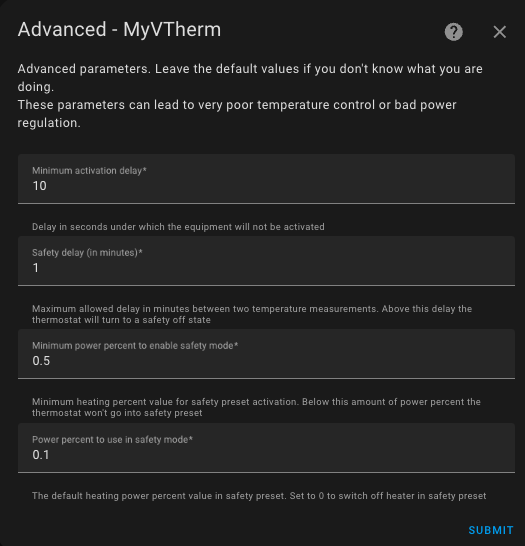
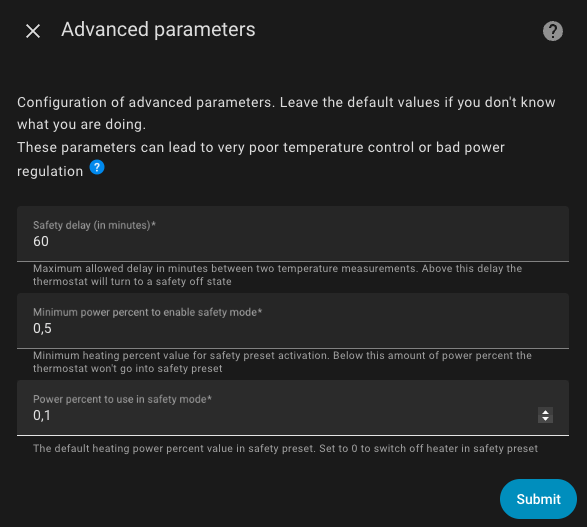
With documentation

diff --git a/documentation/fr/algorithms.md b/documentation/fr/algorithms.md
@@ -4,6 +4,8 @@
   - [L'algorithme TPI](#lalgorithme-tpi)
     - [Configurez les coefficients de l'algorithme TPI](#configurez-les-coefficients-de-lalgorithme-tpi)
     - [Principe](#principe)
+    - [Délai minimal d'activation ou de désactivation](#délai-minimal-dactivation-ou-de-désactivation)
+    - [Seuils haut et bas d'activation de l'algorithme](#seuils-haut-et-bas-dactivation-de-lalgorithme)
   - [L'algorithme d'auto-régulation (sans contrôle de la vanne)](#lalgorithme-dauto-régulation-sans-contrôle-de-la-vanne)
   - [L'algorithme de la fonction d'auto-start/stop](#lalgorithme-de-la-fonction-dauto-startstop)
 
@@ -17,7 +19,11 @@ Si vous avez choisi un thermostat de type ```over_switch``` ou  ```over_valve```
 
 Vous devez donner :
 1. le coefficient coef_int de l'algorithme TPI,
-2. le coefficient coef_ext de l'algorithme TPI
+2. le coefficient coef_ext de l'algorithme TPI,
+3. une durée minimale d'activation en secondes,
+4. une durée minimale d'extinction en secondes,
+5. un seuil haut en °C (ou °K) d'écart de température en dessus duquel l'algorithme sera éteint,
+6. un seuil bas en °C (ou °K) d'écart de température en dessous duquel l'algorithme sera activé
 
 
 ### Principe
@@ -38,6 +44,32 @@ Pour régler ces coefficients, gardez à l'esprit que :
 4. **si l'atteinte de la température cible est trop rapide et que des oscillations apparaissent** autour de la cible, vous pouvez diminuer le ``coef_int`` pour donner moins de puissance au radiateur.
 
 En type `over_valve` le `on_percent` est ramené à une valeur entre 0 et 100% et sert directement à commander l'ouverture de la vanne.
+
+### Délai minimal d'activation ou de désactivation
+
+Le premier délai (`minimal_activation_delay_sec`) en secondes est le délai minimum acceptable pour allumer le radiateur. Lorsque le calcul donne un délai de mise sous tension inférieur à cette valeur, le chauffage reste éteint. Si le temps d'allumage est trop court, la, commutation rapide ne permettra pas à l'équipement de monter en température.
+
+Idem avec le deuxième délai (`minimal_deactivation_delay_sec`) en secondes lui aussi mais pour la durée d'extinction. Si la durée d'extinction est inférieure à cette durée, le radiateur ne sera pas éteint. Ca évite les clignotements rapides qui servent très peu à la régulation de température.
+
+### Seuils haut et bas d'activation de l'algorithme
+
+Depuis la version 7.4, deux seuils supplémentaires sont disponibles. Ils permettent de couper (resp. mettre en marche) l'algorithme TPI lui même en fonction de l'écart entre la consigne et la température courante.
+
+Si la température monte et que l'écart est supérieur au seuil haut alors le radiateur est coupé (ie. le on_percent est forcé à 0).
+Si la température descend et que l'écart est inférieur au seuil bas alors le radiateur est relancé (ie le on_percent est calculé avec l'algo tel que présenté ci-dessus).
+
+Ces deux seuils permettent de couper le cycle d'extinction / allumage lorsque la température dépasse la consigne. Un hystéresis permet d'éviter un bagottement rapide.
+
+Exemples:
+1. supposons que la consigne soit réglée sur 20°, le seuil haut sur 2° et le seuil bas sur 1°,
+2. lorsque la température monte et dépasse les 22° (consigne + seuil haut), le on_percent est forcé à 0,
+3. lorsque la température redescend et passe en dessous des 21° (consigne + seuil bas), le on_percent est de nouveau calculé
+
+> ![Astuce](images/tips.png) _*Notes*_
+> 1. laissez les 2 valeurs à 0, si vous ne voulez pas utiliser les seuils. Cela permet d'avoir le comportement d'avant la version 7.4,
+> 2. les 2 valeurs sont nécessaires. Si vous laissez une à 0, aucun seuils ne sera appliqué. En effet, les 2 sont nécessaires pour avoir un fonctionnement correct.
+> 3. en cas de pilotage (mode Refroidissement), les tests sont inversés mais le principe reste le même.
+> 4. le seuil haut devrait toujours est supérieur au seuil bas. Même en cas de refroidissement
 
 ## L'algorithme d'auto-régulation (sans contrôle de la vanne)
 

diff --git a/documentation/en/algorithms.md b/documentation/en/algorithms.md
@@ -4,6 +4,8 @@
   - [The TPI Algorithm](#the-tpi-algorithm)
     - [Configuring the TPI Algorithm Coefficients](#configuring-the-tpi-algorithm-coefficients)
     - [Principle](#principle)
+    - [Minimum Activation or Deactivation Delay](#minimum-activation-or-deactivation-delay)
+    - [Upper and Lower Activation Thresholds of the Algorithm](#upper-and-lower-activation-thresholds-of-the-algorithm)
   - [The Self-Regulation Algorithm (Without Valve Control)](#the-self-regulation-algorithm-without-valve-control)
   - [The Auto-Start/Stop Function Algorithm](#the-auto-startstop-function-algorithm)
 
@@ -15,9 +17,13 @@ If you have selected a thermostat of type `over_switch`, `over_valve`, or `over_
 
 ![image](images/config-tpi.png)
 
-You need to provide:
-1. the coefficient `coef_int` for the TPI algorithm,
-2. the coefficient `coef_ext` for the TPI algorithm.
+You must provide:
+1. the `coef_int` coefficient of the TPI algorithm,
+2. the `coef_ext` coefficient of the TPI algorithm,
+3. a minimum activation time in seconds,
+4. a minimum deactivation time in seconds,
+5. a high cut-off threshold in °C (or °K) for the temperature deviation above which the algorithm will be disabled,
+6. a low re-activation threshold in °C (or °K) for the temperature deviation below which the algorithm will be enabled again.
 
 ### Principle
 
@@ -37,6 +43,38 @@ When adjusting these coefficients, keep the following in mind:
 4. **If reaching the target temperature is too fast and oscillations occur** around the target, decrease `coef_int` to provide less power to the radiator.
 
 In `over_valve` mode, the `on_percent` value is converted to a percentage (0 to 100%) and directly controls the valve's opening level.
+
+### Minimum Activation or Deactivation Delay
+
+The first delay (`minimal_activation_delay_sec`), in seconds, is the minimum acceptable delay to turn on the heater.
+When the calculation results in a power-on delay shorter than this value, the heater remains off.
+If the activation time is too short, rapid switching will not allow the equipment to reach operating temperature.
+
+Similarly, the second delay (`minimal_deactivation_delay_sec`), also in seconds, defines the minimum acceptable off-time.
+If the off-time is shorter than this value, the heater will not be turned off.
+This prevents rapid flickering that provides little benefit for temperature regulation.
+
+### Upper and Lower Activation Thresholds of the Algorithm
+
+Since version 7.4, two additional thresholds are available.
+They allow you to disable (or re-enable) the TPI algorithm itself, based on the difference between the target setpoint and the current temperature.
+
+- If the temperature rises and the difference is greater than the upper threshold, the heater is switched off (i.e., `on_percent` is forced to 0).
+- If the temperature drops and the difference is smaller than the lower threshold, the heater is turned back on (i.e., `on_percent` is calculated by the algorithm as described above).
+
+These two thresholds stop the on/off cycling when the temperature overshoots the target.
+A hysteresis prevents rapid toggling.
+
+Examples:
+1. Suppose the target setpoint is 20°C, the upper threshold is 2°C, and the lower threshold is 1°C.
+2. When the temperature rises above 22°C (setpoint + upper threshold), `on_percent` is forced to 0.
+3. When the temperature drops below 21°C (setpoint + lower threshold), `on_percent` is recalculated.
+
+> ![Tip](images/tips.png) _*Notes*_
+> 1. Leave both values at 0 if you do not want to use thresholds. This restores the behavior from before version 7.4.
+> 2. Both values are required. If you leave one at 0, no threshold will be applied. Indeed, both are necessary for correct operation.
+> 3. In cooling mode, the tests are reversed, but the principle remains the same.
+> 4. The upper threshold should always be greater than the lower threshold, even in cooling mode.
 
 ## The Self-Regulation Algorithm (Without Valve Control)
 

diff --git a/README-de.md b/README-de.md
@@ -6,7 +6,7 @@
 
 # Versatile Thermostat
 
-Diese README-Datei ist verfügbar in folgenden 
+Diese README-Datei ist verfügbar in folgenden
 Sprachen: [English](README.md) | [French](README-fr.md) | [German](README-de.md)
 
 <p align="center">
@@ -25,6 +25,14 @@ Versatile Thermostat UI Card (Verfügbar auf [Github](https://github.com/jmcolli
 
 # Was ist neu?
 ![New](images/new-icon.png)
+> * **Release 7.4**:
+>
+> - Added thresholds to enable or disable the TPI algorithm when the temperature exceeds the setpoint.
+>   This prevents short on/off cycles of a radiator.
+>   See [TPI](documentation/en/algorithms.md#the-tpi-algorithm)
+>
+> (Need translation please)
+>
 > * **Release 7.2**:
 >
 > - Native Unterstützung für Geräte, die über eine `select` (oder `input_select`) oder `climate` Entität für _VTherm_ vom Typ `over_switch` gesteuert werden können. Dieses Update macht die Erstellung von virtuellen Schaltern für die Integration von Nodon, Heaty, eCosy, etc. überflüssig. Weitere Informationen [hier](documentation/de/over-switch.md#command-customization).
@@ -32,7 +40,7 @@ Versatile Thermostat UI Card (Verfügbar auf [Github](https://github.com/jmcolli
 > - Links zur Dokumentation: Version 7.2 führt experimentelle Links zur Dokumentation auf den Konfigurationsseiten ein. Der Link ist über das Symbol [![?](https://img.icons8.com/color/18/help.png)](https://github.com/jmcollin78/versatile_thermostat/blob/main/documentation/en/over-switch.md#configuration) erreichbar. Diese Funktion wird derzeit auf einigen Konfigurationsseiten getestet.
 
 # 🍻 Danke für die Biere 🍻
-[!["Buy Me A Coffee"](https://www.buymeacoffee.com/assets/img/custom_images/orange_img.png)](https://www.buymeacoffee.com/jmcollin78) 
+[!["Buy Me A Coffee"](https://www.buymeacoffee.com/assets/img/custom_images/orange_img.png)](https://www.buymeacoffee.com/jmcollin78)
 
 Ein großes Dankeschön an alle meine Biersponsoren für ihre Spenden und Ermutigungen. Das bedeutet mir sehr viel und motiviert mich, weiterzumachen! Wenn Sie durch diese Integration Geld gespart haben, geben Sie mir im Gegenzug ein Bier aus; ich würde mich sehr darüber freuen!
 

diff --git a/documentation/en/feature-advanced.md b/documentation/en/feature-advanced.md
@@ -2,7 +2,6 @@
 
 - [Advanced Configuration](#advanced-configuration)
   - [Advanced Settings](#advanced-settings)
-    - [Minimum Activation Delay](#minimum-activation-delay)
     - [Safety Mode](#safety-mode)
 
 These settings refine the thermostat's operation, particularly the safety mechanism for a _VTherm_. Missing temperature sensors (room or outdoor) can pose a risk to your home. For instance, if the temperature sensor gets stuck at 10°C, the `over_climate` or `over_valve` _VTherm_ types will command maximum heating of the underlying devices, which could lead to room overheating or even property damage, at worst resulting in a fire hazard.
@@ -20,14 +19,6 @@ For `over_climate` _VTherms_, which self-regulate, Safety Mode is disabled. In t
 The advanced configuration form looks like this:
 
 ![image](images/config-advanced.png)
-
-### Minimum Activation Delay
-
-The first delay (`minimal_activation_delay_sec`) in seconds is the minimum acceptable delay to turn on the heating. If the calculated activation time is shorter than this value, the heating remains off. This parameter only applies to _VTherm_ with cyclic triggering `over_switch`. If the activation time is too short, rapid switching will not allow the device to heat up properly.
-
-### Minimum Deactivation Delay
-
-The delay (`minimal_deactivation_delay_sec`) in seconds is the minimum acceptable delay to turn off the heating. If the calculated deactivation time is shorter than this value, the heating remains on.
 
 ### Safety Mode
 

diff --git a/README-fr.md b/README-fr.md
@@ -6,7 +6,7 @@
 
 # Versatile Thermostat
 
-Ce fichier README est disponible en 
+Ce fichier README est disponible en
 [Anglais](README.md) | [Français](README-fr.md) | [Allemand](README-de.md)
 
 <p align="center">
@@ -25,6 +25,10 @@ Le composant Versatile Thermostat UI Card (Disponible sur [Github](https://githu
 
 # Quoi de neuf ?
 ![Nouveau](images/new-icon.png)
+> * **Release 7.4**:
+>
+> - Ajout de seuils permettant d'activer ou de désactiver l'algorithme TPI lorsque la température dépasse la consigne. Cela permet d'éviter les allumages/extinction d'un radiateur sur des faibles durées. Cf. [TPI](documentation/fr/algorithms.md#lalgorithme-tpi)
+>
 > * **Release 7.2**:
 >
 > - Prise en compte native des équipements pilotable via une entité de type `select` (ou `input_select`) ou `climate` pour des _VTherm_ de type `over_switch`. Cette évolution rend obsolète, la création de switch virtuels pour l'intégration des Nodon ou Heaty ou eCosy ... etc. Plus d'informations [ici](documentation/fr/over-switch.md#la-personnalisation-des-commandes).

diff --git a/README-cs.md b/README-cs.md
@@ -25,6 +25,14 @@ Versatile Thermostat UI Card (K dispozici na [Github](https://github.com/jmcolli
 
 # Co je nového?
 ![Nové](images/new-icon.png)
+> * **Release 7.4**:
+>
+> - Added thresholds to enable or disable the TPI algorithm when the temperature exceeds the setpoint.
+>   This prevents short on/off cycles of a radiator.
+>   See [TPI](documentation/en/algorithms.md#the-tpi-algorithm)
+>
+> (Need translation please)
+>
 > * **Verze 7.2**:
 >
 > - Nativní podpora zařízení ovládaných prostřednictvím entity `select` (nebo `input_select`) nebo `climate` pro _VTherm_ typu `over_switch`. Tato aktualizace činí vytváření virtuálních spínačů pro integraci Nodon, Heaty, eCosy atd. zastaralým. Více informací [zde](documentation/cs/over-switch.md#přizpůsobení-příkazů).

diff --git a/documentation/fr/feature-advanced.md b/documentation/fr/feature-advanced.md
@@ -21,10 +21,6 @@ Le formulaire de configuration avancée est le suivant :
 
 ![image](images/config-advanced.png)
 
-### Délai minimal d'activation
-
-Le premier délai (`minimal_activation_delay_sec`) en secondes est le délai minimum acceptable pour allumer le chauffage. Lorsque le calcul donne un délai de mise sous tension inférieur à cette valeur, le chauffage reste éteint. Ce paramètre ne sert qu'au _VTherm_ avec un déclenchement cyclique `over_switch`. Si le temps d'allumage est trop court, la, commutation rapide ne permettra pas à l'équipement de monter en température.
-
 ### La mise en sécurité
 
 Le deuxième délai (`safety_delay_min`) est le délai maximal entre deux mesures de température avant de passer le _VTherm_ en mode sécurité.

diff --git a/README.md b/README.md
@@ -25,6 +25,12 @@ Versatile Thermostat UI Card (Available on [Github](https://github.com/jmcollin7
 
 # What's New?
 ![New](images/new-icon.png)
+> * **Release 7.4**:
+>
+> - Added thresholds to enable or disable the TPI algorithm when the temperature exceeds the setpoint.
+>   This prevents short on/off cycles of a radiator.
+>   See [TPI](documentation/en/algorithms.md#the-tpi-algorithm)
+>
 > * **Release 7.2**:
 >
 > - Native support for devices controlled via a `select` (or `input_select`) or `climate` entity for _VTherm_ of type `over_switch`. This update makes the creation of virtual switches obsolete for integrating Nodon, Heaty, eCosy, etc. More information [here](documentation/en/over-switch.md#command-customization).
